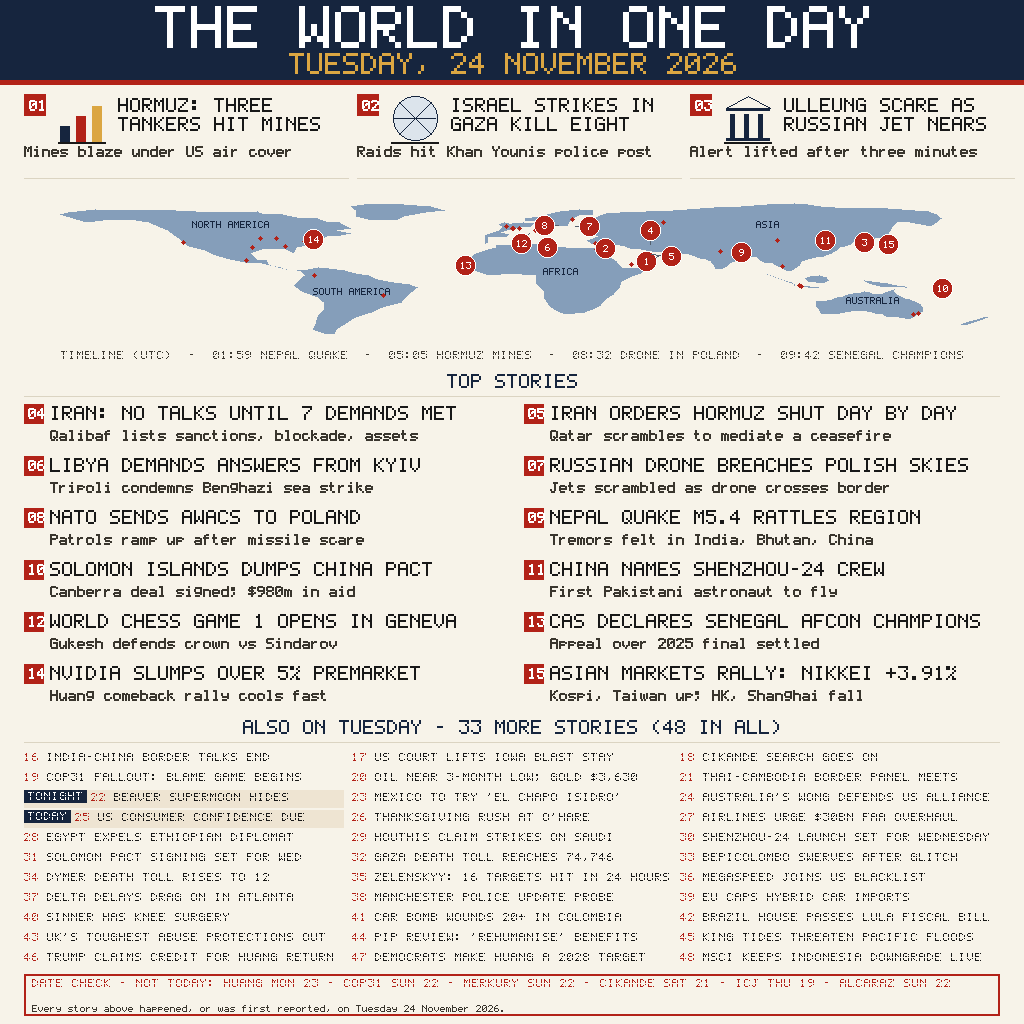
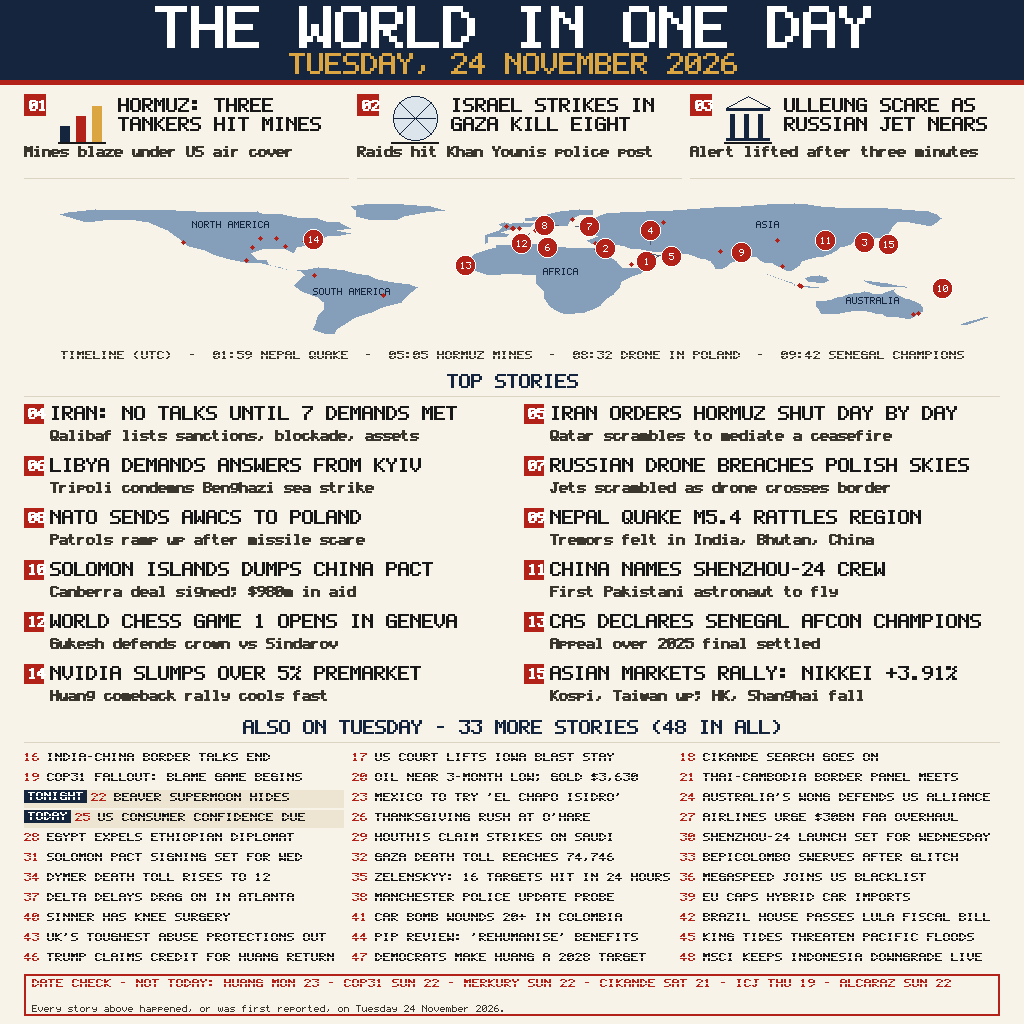
Bold pass: draw strokes twice at scale >= 1.25 so headlines and index type stay legible at small sizes (FIX_FIRST fix)

Changed region(s): [[0.8125, 0.0938, 0.8438, 0.125], [0.375, 0.0, 0.4062, 0.0312], [0.125, 0.0938, 0.1562, 0.125]]

diff --git a/main.py b/main.py
@@ -308,11 +308,20 @@ class Canvas:
                 self.fill_rect(int(xs[j]), yy, max(1, int(xs[j + 1]) - int(xs[j])), 1, color)
 
     def draw_text(self, x, baseline, text, color, scale):
-        """Draw text with its baseline at y=baseline (cap top = baseline-7*scale)."""
+        """Draw text with its baseline at y=baseline (cap top = baseline-7*scale).
+
+        At scale >= 1.25 every stroke is also drawn once more shifted a
+        pixel right (fake bold): it thickens the 5x7 glyphs so headlines
+        and index type stay legible when the judge views the page small.
+        Scale-1 type (pin numbers, map labels, footer) stays single-weight
+        so its 1 px letter gaps do not close up.
+        """
         cx = x
         adv = int(round(6 * scale))
         gh = int(round(7 * scale))
         top = int(round(baseline - 7 * scale))
+        bold = max(1, int(round(scale / 3))) if scale >= 1.25 else 0
+        block = max(1, int(round(scale)))
         for ch in text:
             rows = glyph_rows(ch)
             for ry in range(7):
@@ -321,8 +330,9 @@ class Canvas:
                     if row[rx] == "#":
                         bx = cx + int(rx * scale)
                         by = top + int(ry * scale)
-                        self.fill_rect(bx, by, max(1, int(round(scale))),
-                                       max(1, int(round(scale))), color)
+                        self.fill_rect(bx, by, block, block, color)
+                        if bold:
+                            self.fill_rect(bx + bold, by, block, block, color)
             cx += adv
         return cx
 
